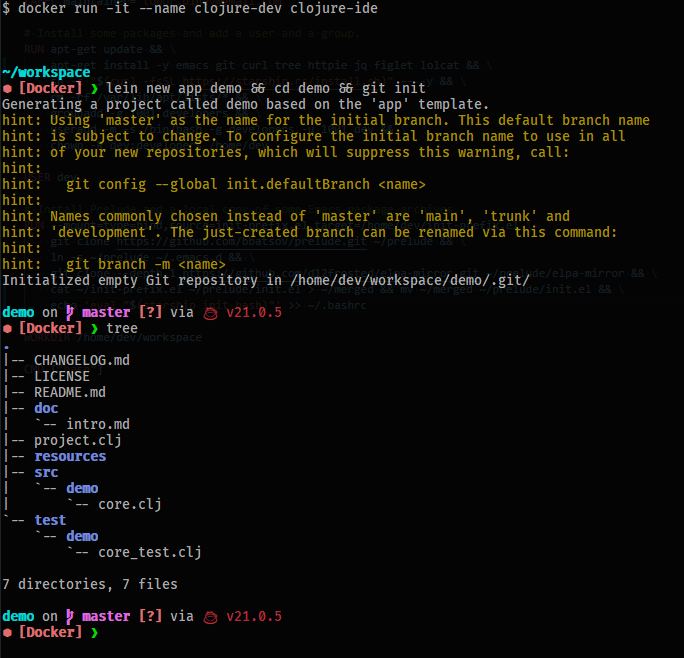
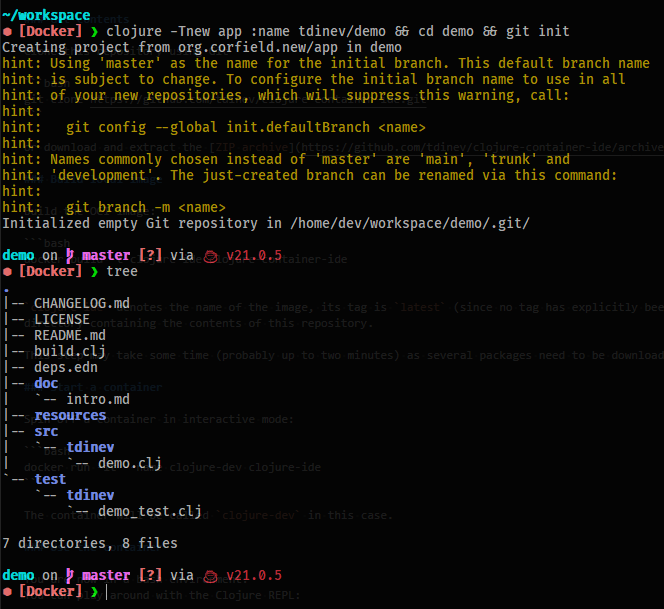
doc: Show how to create new app using deps-new

Changed region(s): [[0.0, 0.0, 0.994, 0.9984]]

diff --git a/README.md b/README.md
@@ -22,6 +22,7 @@ The produced image contains, apart from the Clojure CLI, the following manually 
   * [jq](https://jqlang.github.io/jq/) for JSON processing
   * [figlet](http://www.figlet.org/) for making ASCII art
   * [lolcat](https://github.com/busyloop/lolcat) for rainbow colouring text (accessible under `/usr/games/lolcat`)
+* [deps-new](https://github.com/seancorfield/deps-new), a Clojure tool for handily creating projects
 
 This repository arose from a need to be able to play and experiment with Clojure and functional programming in general in environments that are behind a corporate firewall and thus make downloading artifacts and installing executables difficult or at the very least unpleasant.
 
@@ -78,6 +79,12 @@ clojure
 ```
 
 (You can exit the REPL by sending the `EOF` character, usually by typing `CTRL+D` or `CTRL+Z`.)
+
+or you can create a new application using *deps-new:*
+
+```bash
+clojure -Tnew app :name tdinev/demo
+```
 
 Interacting (via [Git Bash](https://git-scm.com/downloads/win) on Windows) looks like this:
 
